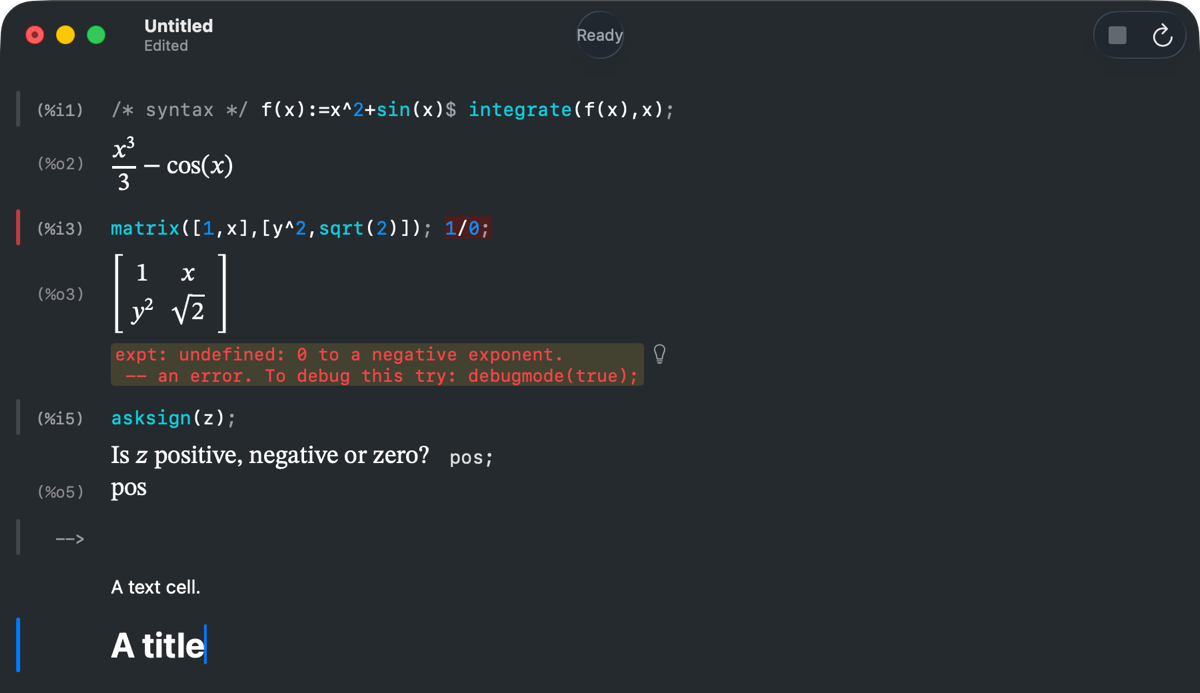
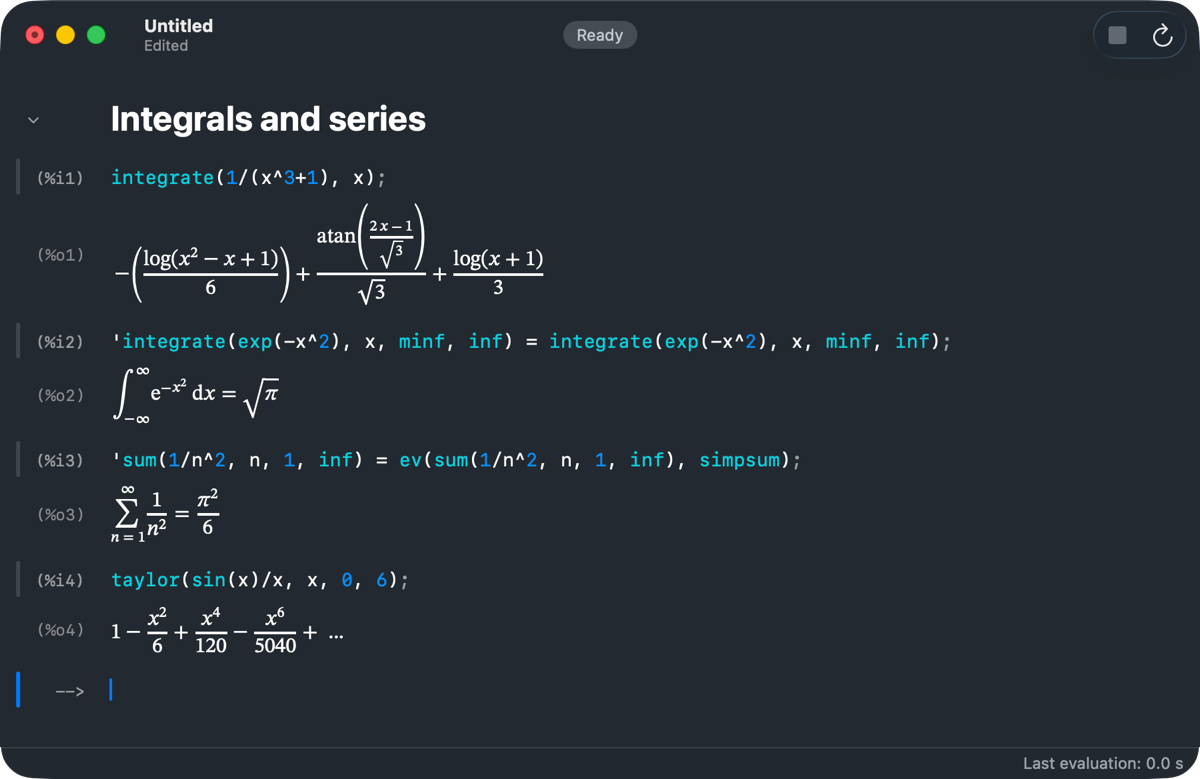
Website screenshot: integrals and series
A site-screenshot key script and scripts/site-screenshot.sh retake it;
crop-screenshot.swift cuts the empty space above the status bar.

diff --git a/scripts/crop-screenshot.swift b/scripts/crop-screenshot.swift
@@ -1,0 +1,48 @@
+// SPDX-License-Identifier: GPL-2.0-or-later
+// Crops a window screenshot for the website: cuts out the empty space between
+// the last cell and the status bar, and scales to 1200 px wide.
+// Usage: swift scripts/crop-screenshot.swift <in.png> <out.png>
+import AppKit
+
+let args = CommandLine.arguments
+guard args.count == 3, let image = NSImage(contentsOfFile: args[1]),
+      let source = image.cgImage(forProposedRect: nil, context: nil, hints: nil) else {
+    FileHandle.standardError.write("usage: crop-screenshot.swift <in.png> <out.png>\n".data(using: .utf8)!)
+    exit(1)
+}
+let bitmap = NSBitmapImageRep(cgImage: source)
+let width = bitmap.pixelsWide, height = bitmap.pixelsHigh
+
+// The background is sampled in the empty space above the status bar.
+let probeY = height - 200
+let background = bitmap.colorAt(x: width / 2, y: probeY)!
+func isBackground(_ y: Int) -> Bool {
+    stride(from: 20, to: width - 20, by: 4).allSatisfy { x in
+        let c = bitmap.colorAt(x: x, y: y)!
+        return abs(c.redComponent - background.redComponent) + abs(c.greenComponent - background.greenComponent)
+            + abs(c.blueComponent - background.blueComponent) < 0.03
+    }
+}
+var lastContent = probeY
+while lastContent > 0 && isBackground(lastContent) { lastContent -= 1 }
+var statusTop = probeY
+while statusTop < height - 1 && isBackground(statusTop) { statusTop += 1 }
+
+// The worksheet down to its last cell, a margin, then the status bar.
+let margin = 60
+let topPart = source.cropping(to: CGRect(x: 0, y: 0, width: width, height: lastContent + margin))!
+let statusPart = source.cropping(to: CGRect(x: 0, y: statusTop, width: width, height: height - statusTop))!
+let keep = topPart.height + statusPart.height
+let outWidth = 1200, outHeight = Int((Double(keep) * Double(outWidth) / Double(width)).rounded())
+let context = CGContext(data: nil, width: outWidth, height: outHeight, bitsPerComponent: 8, bytesPerRow: 0,
+                        space: CGColorSpace(name: CGColorSpace.sRGB)!,
+                        bitmapInfo: CGImageAlphaInfo.premultipliedLast.rawValue)!
+context.interpolationQuality = .high
+let scale = Double(outWidth) / Double(width)
+let statusHeight = Int((Double(statusPart.height) * scale).rounded())
+// Core Graphics draws from the bottom up.
+context.draw(statusPart, in: CGRect(x: 0, y: 0, width: outWidth, height: statusHeight))
+context.draw(topPart, in: CGRect(x: 0, y: statusHeight, width: outWidth, height: outHeight - statusHeight))
+let png = NSBitmapImageRep(cgImage: context.makeImage()!).representation(using: .png, properties: [:])!
+try png.write(to: URL(filePath: args[2]))
+print("\(args[2]): \(outWidth)x\(outHeight)")

diff --git a/site/index.html b/site/index.html
@@ -100,8 +100,8 @@
     </p>
     <picture>
       <source srcset="screenshot-dark.png" media="(prefers-color-scheme: dark)">
-      <img class="shot" src="screenshot-light.png" width="1200" height="693"
-           alt="A Macsima worksheet with an integral, a matrix, an error message and a question from Maxima">
+      <img class="shot" src="screenshot-light.png" width="1200" height="779"
+           alt="A Macsima worksheet titled Integrals and series: an integral of a rational function, the Gaussian integral, the sum of 1/n² equal to π²/6, and a Taylor series, all typeset">
     </picture>
   </div>
 </header>

diff --git a/Tests/Fixtures/keyscripts/check.py b/Tests/Fixtures/keyscripts/check.py
@@ -260,6 +260,13 @@ elif script == "close-saved":
 elif script == "appearance":
     c = dump("appearance", 1)["cells"]
     check(len(c[0]["outputs"]) == 1 and c[1]["outputs"][1].startswith("error"), "the outputs arrived")
+elif script == "site-screenshot":
+    first = [(c["kind"], c["input"]) for c in dump("site", 1)["cells"]]
+    check(first == [("title", "Integrals and series")], f"the title is the only cell: {first}")
+    c = dump("site", 2)["cells"]
+    outs = [x["outputs"] for x in c if x["kind"] == "code" and x["input"]]
+    check(len(outs) == 4 and all(len(o) == 1 and o[0].startswith("math") for o in outs),
+          f"four results, no errors: {outs}")
 elif script == "zoom-basics":
     import zipfile, re
     z = lambda n: dump("zoom", n)["zoom"]

diff --git a/CLAUDE.md b/CLAUDE.md
@@ -37,7 +37,7 @@ Facts to keep in mind (details in the reports, BOOTSTRAP.md, WXMX_COMPAT.md and 
 - **Math rendering.** One shared hidden web view (`MathSnapshotRenderer`) renders outputs to cached images; `macsima-render verify` checks the images match their math. Translate math on the main thread (`TranslationCache`): the translator is recursive and capped at 400 levels.
 - **`.wxmx`.** `WXMXReader` and `WXMXWriter` in WorksheetKit keep everything they don't understand. Store Maxima's math as one canonical `<math>` element (`WorksheetController.storedMath`) so files round-trip exactly.
 - **Editor.** Each cell is an `NSTextView` on TextKit 2 (`CellTextView`); the controller keeps one per cell for the document's lifetime, so undo survives scrolling. Colours and marks are TextKit 2 rendering attributes; after changing them, call `redrawFragments()`, or they don't show.
-- **UI tests.** XCUITest (`Tests/UITests/`) for real keystrokes. Key scripts in `Tests/Fixtures/keyscripts/` (`run.sh editor-basics|eval-basics|advance-basics|editor-syntax|undo-scroll|find-basics|errors-basics|close-basics|appearance|wrap-basics|copy-basics|cells-basics|plots-basics|folds-basics|format-basics|complete-basics|help-basics|panels-basics|modes-basics|files-basics|settings-basics|bottom-scroll`, plus `save-basics`, `advance-existing`, `close-saved`, `zoom-basics` and `kinds-basics` with a fixture file; `run.sh` refuses on a locked screen and logs when another app takes the focus) drive the debug app. Synthesized key events are posted to the app's event queue; calling `sendEvent` directly breaks undo grouping. Scripts never touch the user's documents or clipboard: they ignore restored windows, the driver refuses to run otherwise, and copies go to a private pasteboard. Screenshots: window only, never the whole screen.
+- **UI tests.** XCUITest (`Tests/UITests/`) for real keystrokes. Key scripts in `Tests/Fixtures/keyscripts/` (`run.sh editor-basics|eval-basics|advance-basics|editor-syntax|undo-scroll|find-basics|errors-basics|close-basics|appearance|wrap-basics|copy-basics|cells-basics|plots-basics|folds-basics|format-basics|complete-basics|help-basics|panels-basics|modes-basics|files-basics|settings-basics|bottom-scroll`, plus `save-basics`, `advance-existing`, `close-saved`, `zoom-basics` and `kinds-basics` with a fixture file, and `site-screenshot` for the website through `scripts/site-screenshot.sh`; `run.sh` refuses on a locked screen and logs when another app takes the focus) drive the debug app. Synthesized key events are posted to the app's event queue; calling `sendEvent` directly breaks undo grouping. Scripts never touch the user's documents or clipboard: they ignore restored windows, the driver refuses to run otherwise, and copies go to a private pasteboard. Screenshots: window only, never the whole screen.
 - **Long math** breaks into lines in the page's own script (`MathLineBreaking.swift`), after wxMaxima's BreakLines; `macsima-render verify` checks it. The translator, `MaximaInputText` and `LaTeXTranslator` recurse up to 400 levels on the main thread's stack: keep their recursive functions' frames small (a bigger frame crashed a full test run once).
 - **Folding** keeps one flat cell list; a heading's `isFolded` hides its section in the view only. `.wxmx` and `.wxm` write the section into `<fold>`/fold markers.
 - **wxMaxima as a reference.** Run it only on copies, with `-f <private ini>` and a scratch `HOME`; check that its settings are unchanged afterwards. Batch mode (`-b`) saves but never exits, and stops at errors and questions.
